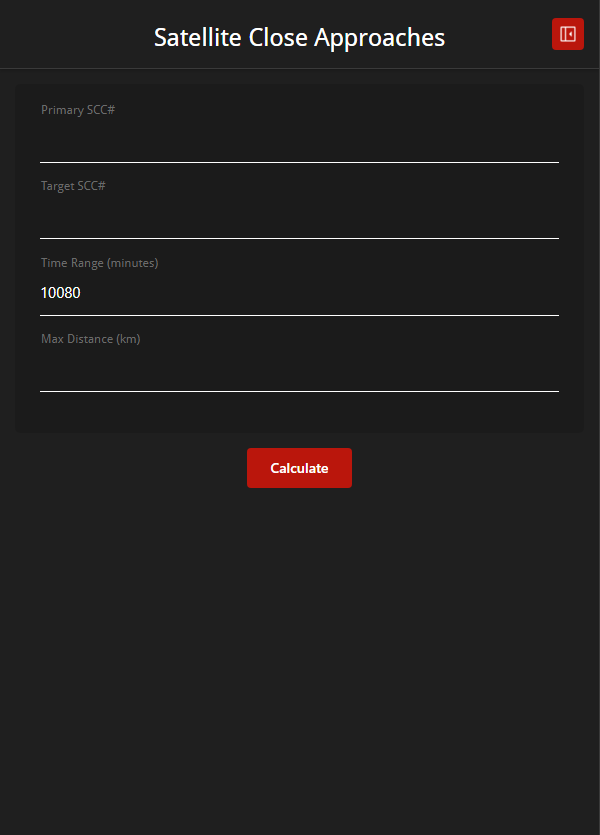
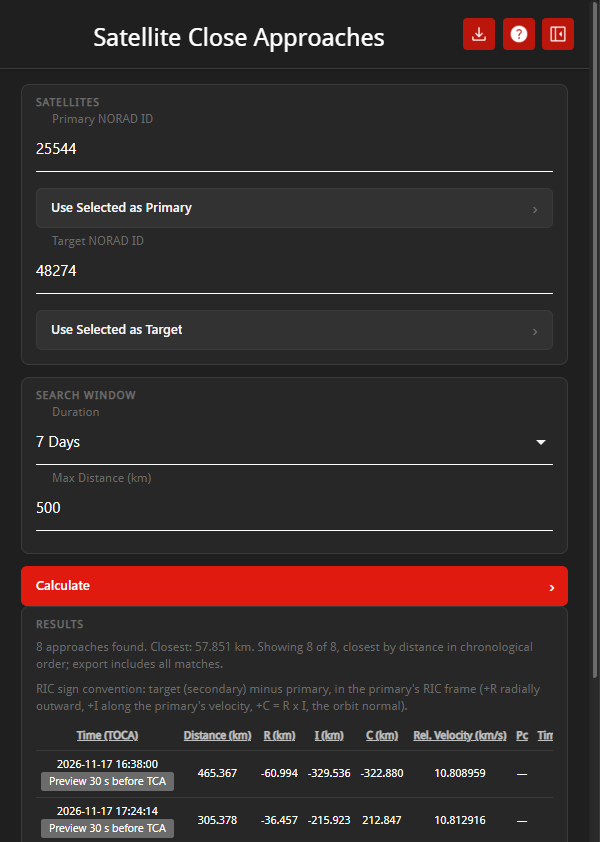
fix(sensor): :bug: altitude wording, create-sat toast punctuation, time zone change event, TOCA/POCA help image

diff --git a/src/app/sensors/__tests__/display-time-zone.test.ts b/src/app/sensors/__tests__/display-time-zone.test.ts
@@ -1,5 +1,5 @@
-import { describe, expect, it } from 'vitest';
-import { describeZoneAt, displayZoneColumns, displayZoneHeaders, parseDisplayTimeZone, zoneOffsetLabel } from '../display-time-zone';
+import { describe, expect, it, vi } from 'vitest';
+import { DISPLAY_TIME_ZONE_EVENT, describeZoneAt, displayZoneColumns, displayZoneHeaders, parseDisplayTimeZone, setDisplayTimeZone, zoneOffsetLabel } from '../display-time-zone';
 
 const WINTER = Date.UTC(2026, 0, 15, 12, 0, 0);
 const SUMMER = Date.UTC(2026, 6, 15, 12, 0, 0);
@@ -37,5 +37,16 @@ describe('display time zone', () => {
   it('labels the chip', () => {
     expect(describeZoneAt(WINTER, 'UTC')).toBe('UTC');
     expect(describeZoneAt(WINTER, 'America/New_York')).toContain('UTC-05:00');
+  });
+
+  it('announces a zone change so the timeline marker can re-render (#458)', () => {
+    const listener = vi.fn();
+
+    window.addEventListener(DISPLAY_TIME_ZONE_EVENT, listener);
+    setDisplayTimeZone('America/New_York');
+    window.removeEventListener(DISPLAY_TIME_ZONE_EVENT, listener);
+    setDisplayTimeZone('UTC');
+
+    expect(listener).toHaveBeenCalledTimes(1);
   });
 });

diff --git a/src/plugins/create-sat/create-sat.ts b/src/plugins/create-sat/create-sat.ts
@@ -1238,7 +1238,11 @@ export class CreateSat extends KeepTrackPlugin {
         .replace('{name}', inputParams.name)
         .replace('{scc}', inputParams.scc);
 
-      ServiceLocator.getUiManager().toast(CreateSat.createdToastNote_ ? `${createdText} ${CreateSat.createdToastNote_}` : createdText, ToastMsgType.normal, true);
+      const note = CreateSat.createdToastNote_;
+      // Two sentences need a full stop between them (satCreated has none); CJK text takes a full-width stop.
+      const stop = /[.!。]$/u.test(createdText) ? '' : /[　-鿿＀-￯]$/u.test(createdText) ? '。' : '.';
+
+      ServiceLocator.getUiManager().toast(note ? `${createdText}${stop} ${note}` : createdText, ToastMsgType.normal, true);
       EventBus.getInstance().emit(EventBusEvent.pluginActionUsed, 'CreateSat', { satId });
     } catch (error) {
       // ootk rejects an out-of-range element with a ParseError; name the field and its range instead.

diff --git a/src/app/sensors/display-time-zone.ts b/src/app/sensors/display-time-zone.ts
@@ -15,6 +15,9 @@ import { browserTimeZone, formatInTimeZone, normalizeTimeZone } from './site-tim
 
 export const UTC_ZONE = 'UTC';
 
+/** Window event fired after the display zone is set, so views that bake the zone into markup can re-render. */
+export const DISPLAY_TIME_ZONE_EVENT = 'keeptrack-display-time-zone-changed';
+
 /** True for the neutral default: the zone is UTC (any spelling Intl treats as UTC). */
 export const isUtcZone = (zone: string): boolean => zone === UTC_ZONE || zone === 'Etc/UTC' || zone === 'Etc/GMT';
 
@@ -55,6 +58,10 @@ export const setDisplayTimeZone = (zone: string): string => {
     PersistenceManager.getInstance().saveItem(StorageKey.DISPLAY_TIME_ZONE, next);
   } catch {
     // Storage unavailable: the choice just does not persist.
+  }
+
+  if (typeof window !== 'undefined') {
+    window.dispatchEvent(new CustomEvent(DISPLAY_TIME_ZONE_EVENT, { detail: next }));
   }
 
   return next;
